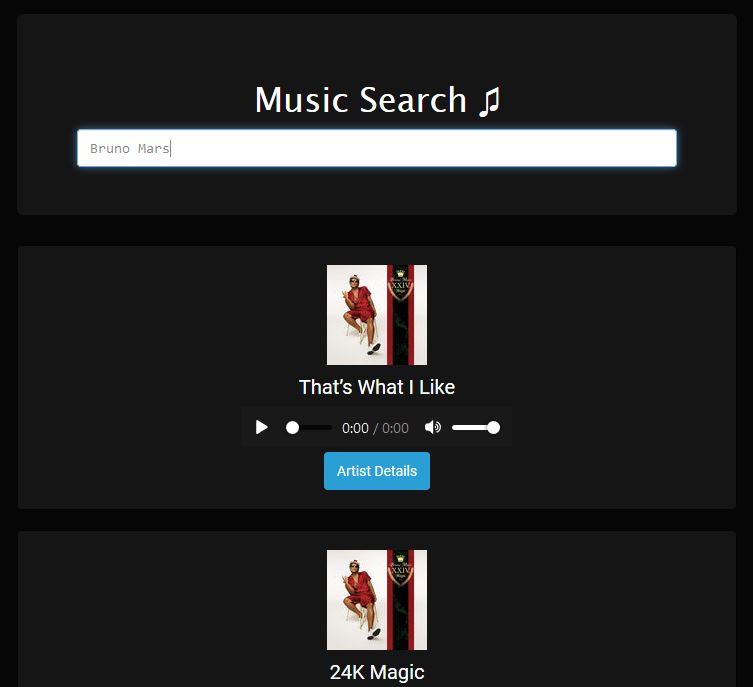
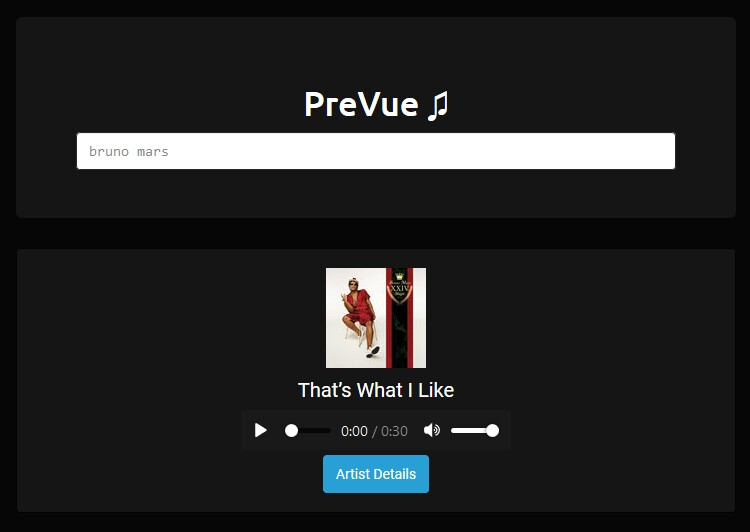
changed demo image

diff --git a/index.html b/index.html
@@ -19,7 +19,7 @@
 
 <div class="container">
     <div class="jumbotron">
-        <h3 class="text-center newFont">Music Search ♫ </h3>
+        <h3 class="text-center newFont">PreVue ♫ </h3>
         <form id="searchForm">
             <input type="text" class="form-control changeFont" id="searchText" placeholder="Search Music...">
         </form>
